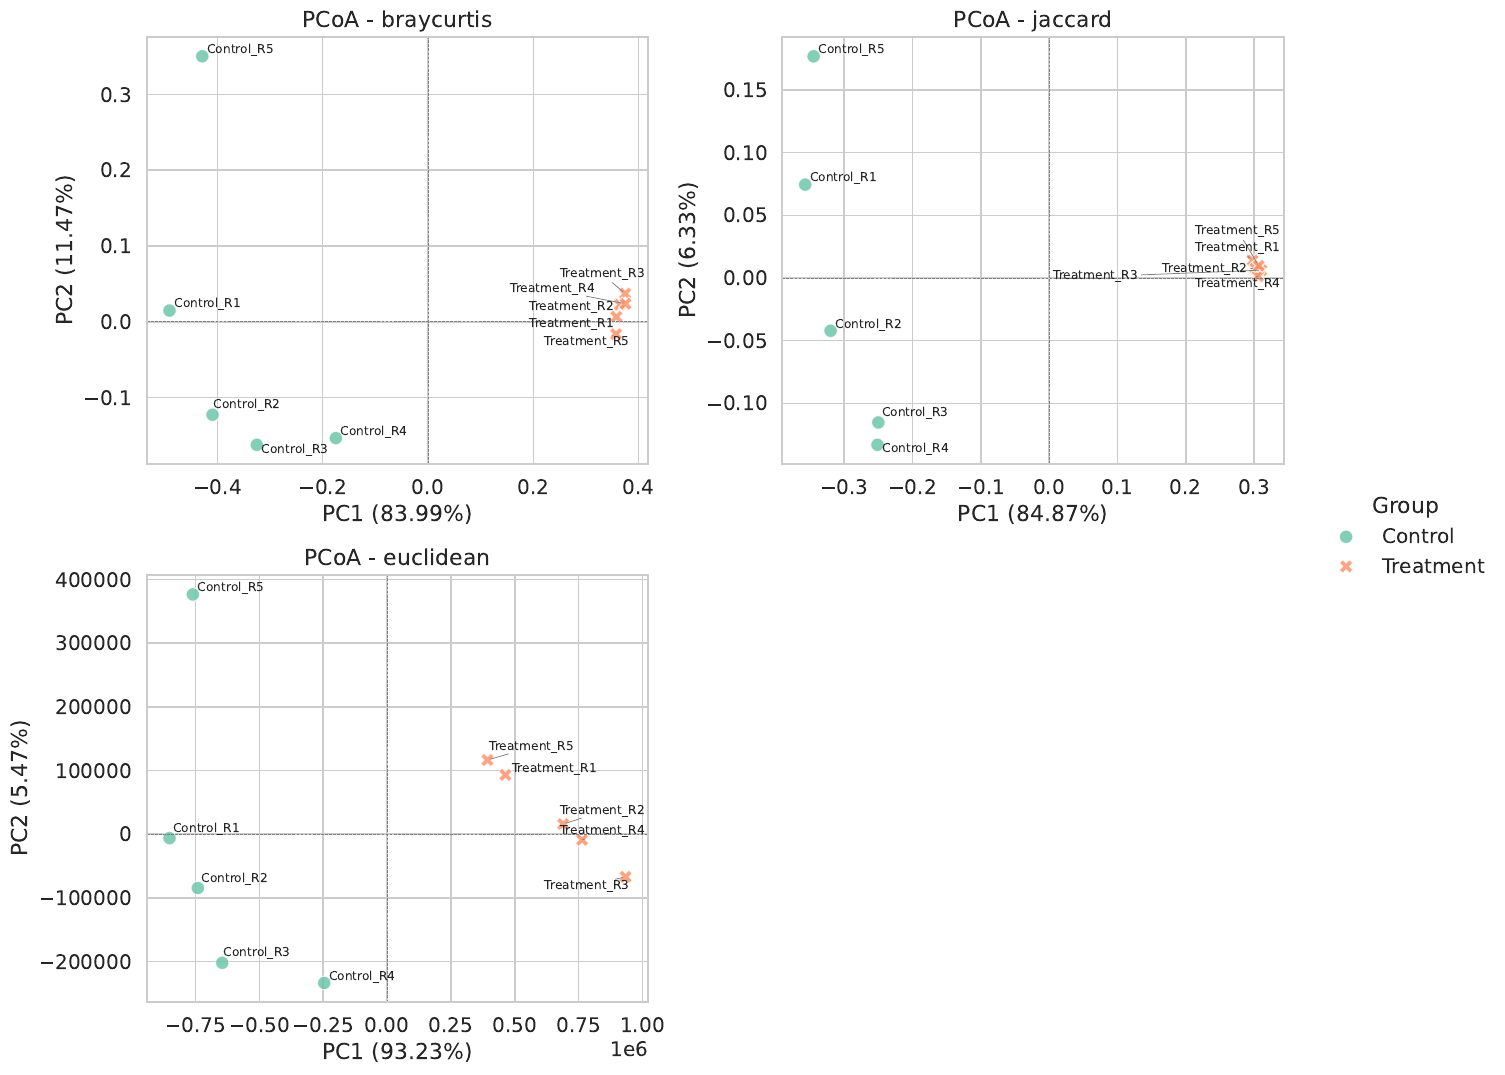
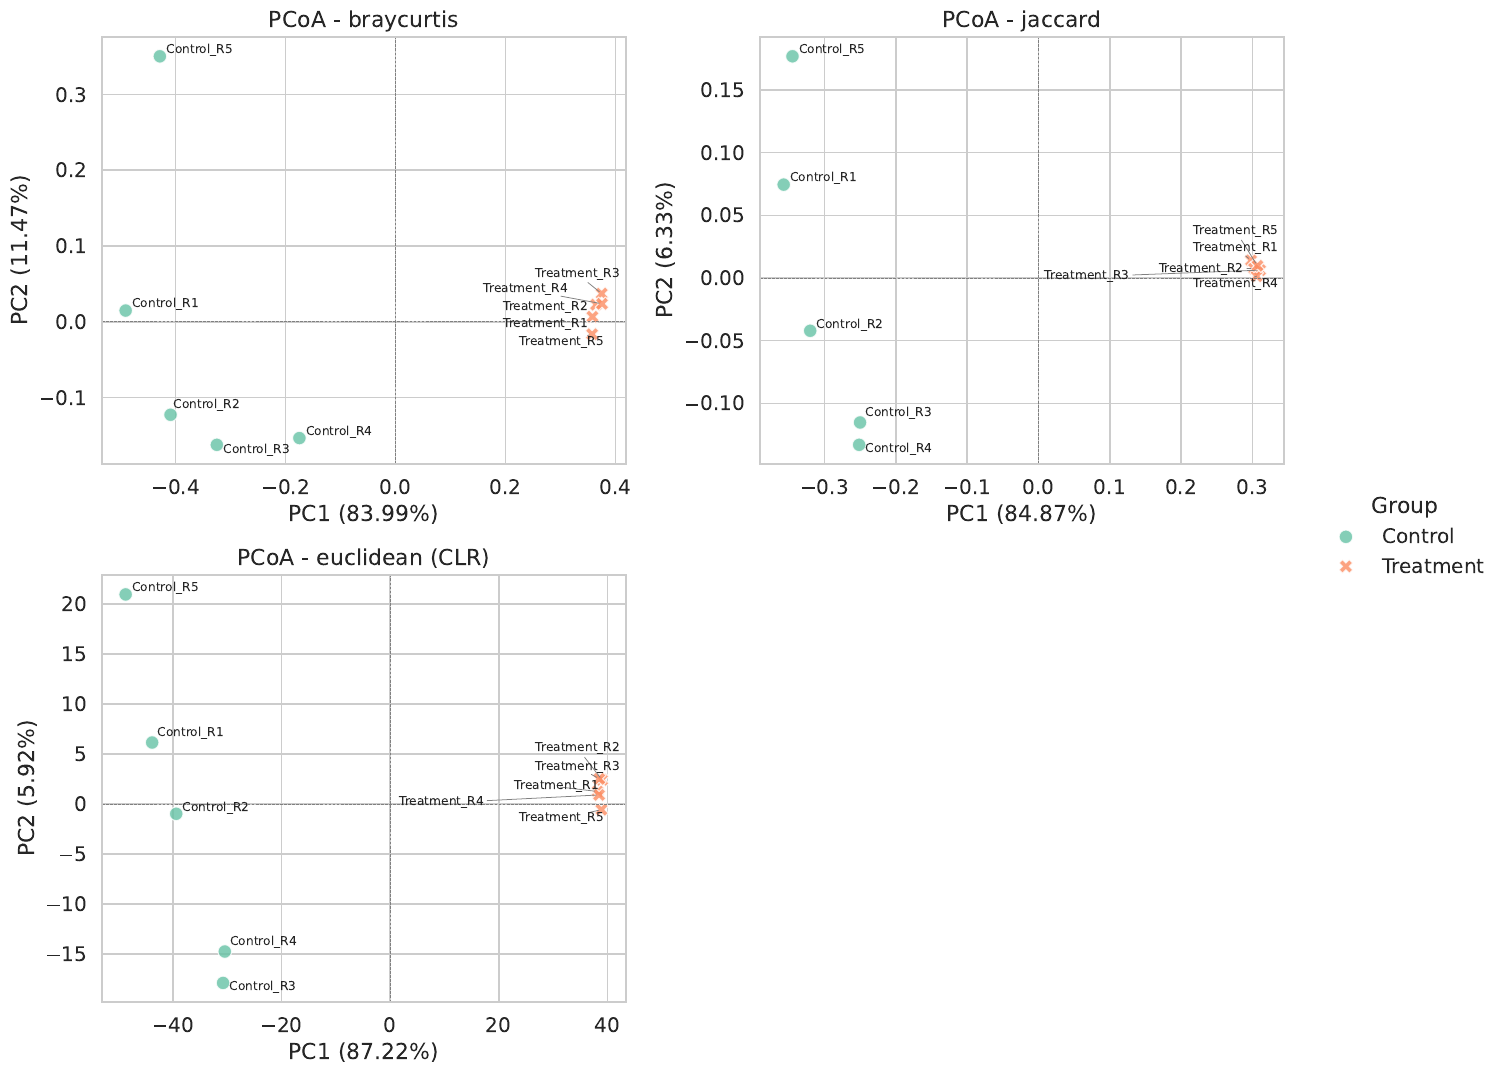
README: note CLR for Euclidean, update beta diversity example

diff --git a/README.md b/README.md
@@ -124,6 +124,8 @@ nextflow_config: ""
 | `nextflow_config` | optional | extra Nextflow config file, e.g. to run on a cluster (see below) |
 
 The group column, number of top species and beta metrics are set in `rules/*.smk` (`params:`).
+In the pipeline, Euclidean distance is computed on CLR-transformed counts (`clr_flags` in
+`rules/beta_diversity.smk`), so it reflects composition rather than sequencing depth.
 
 ### Output
 
